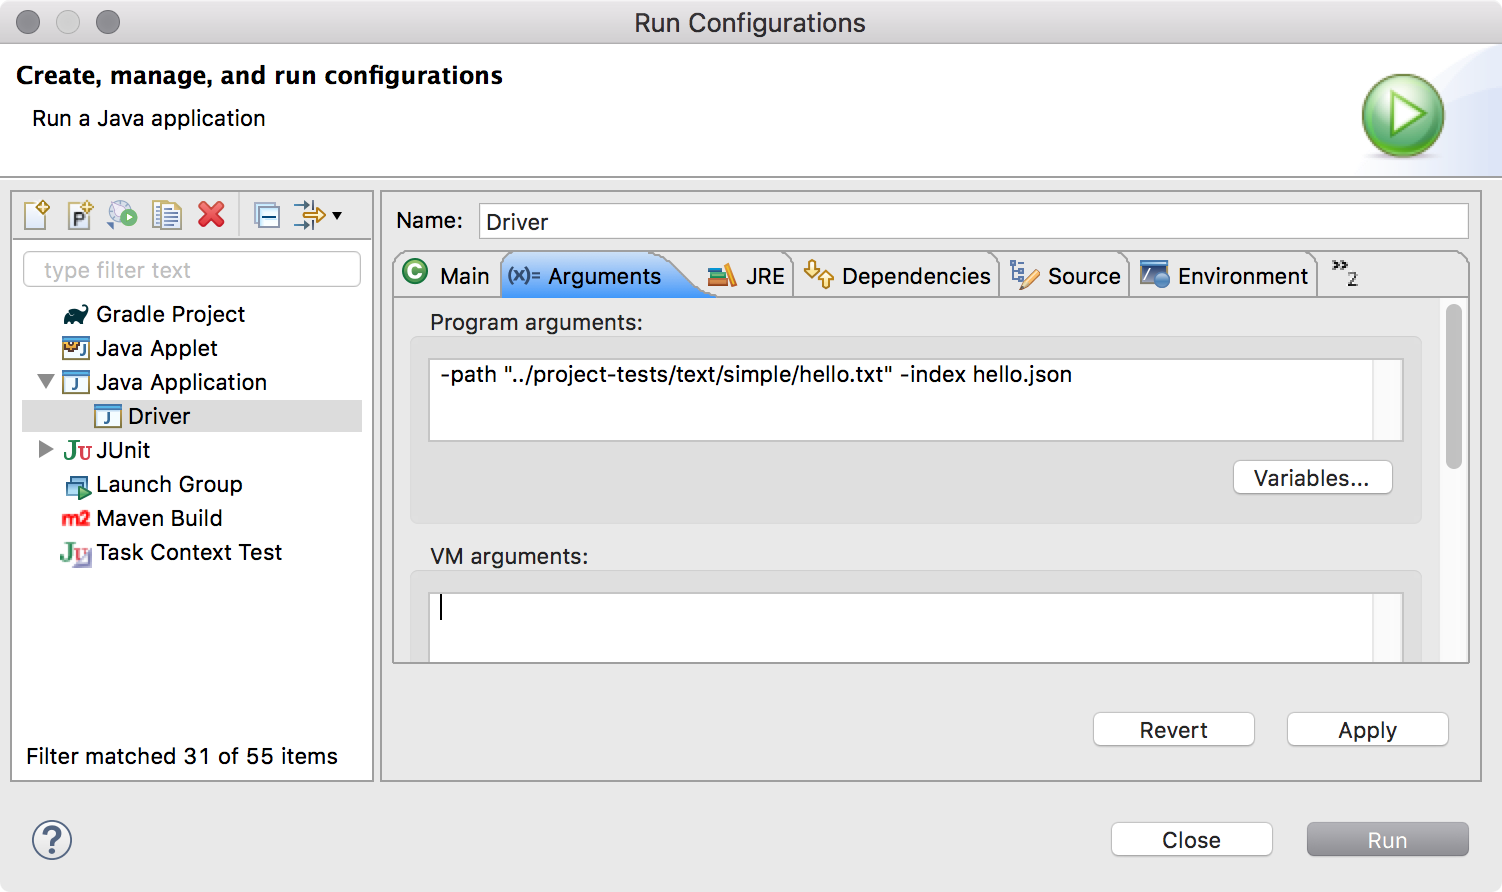
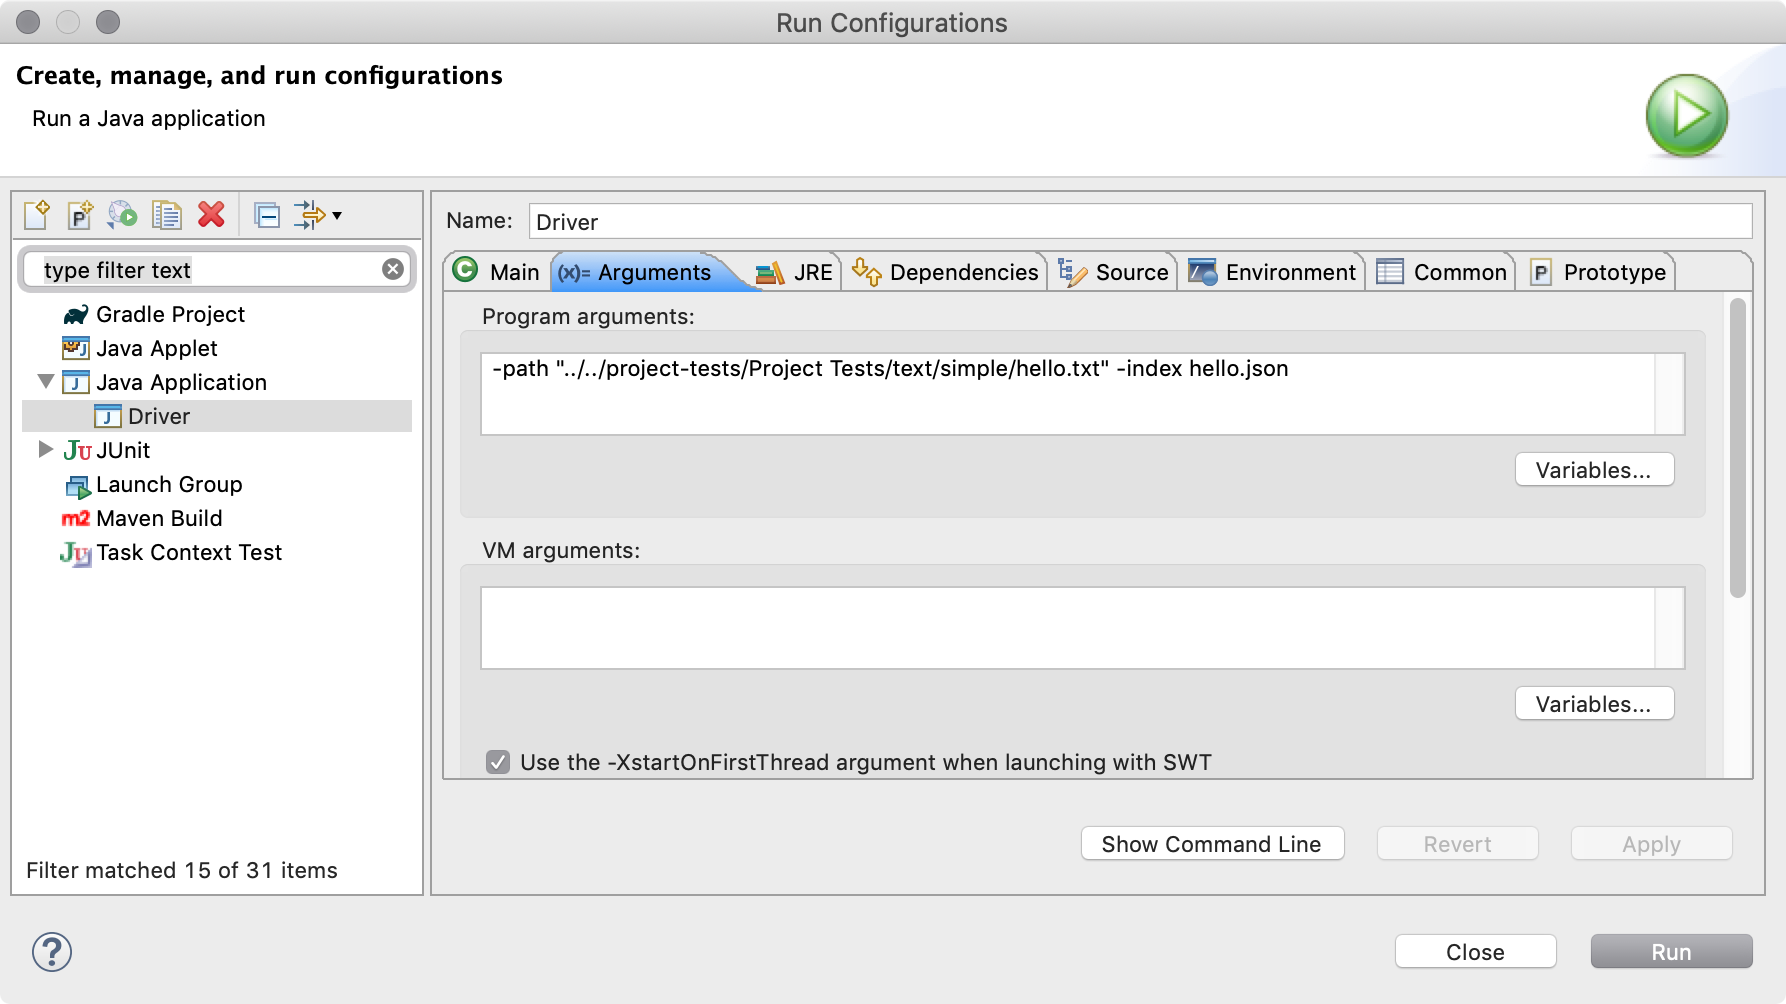
Updating project guides.

diff --git a/_projects/project-review.md b/_projects/project-review.md
@@ -4,10 +4,6 @@ navbar: Guides
 layout: guides
 key: 0.4
 
-tags:
-  - text: 'Pending'
-    type: 'is-light'
-
 assignments:
   - text: Project 1 Code Review
     link: https://usfca.instructure.com/courses/1586786/assignments/6871433
@@ -27,6 +23,7 @@ blurb: |
 We will use one-on-one code reviews with the instructor to evaluate your project design. We will be looking for the following when reviewing your code:
 
   - Your code should follow proper code style and naming conventions.
+  - Your code should have no warnings.
   - Your code should be well-documented using Javadoc notation.
   - Your code should be object-oriented.
   - Your code should be encapsulated, generalized, and reusable.
@@ -42,14 +39,19 @@ This list is not exhaustive, and exactly what we look for will vary by project.
 
 {% include anchor.html level="h2" text="Eligibility" %}
 
-Pending
-
-{% comment %}
 The code review process is required for each project. Only request code review if all of the following are true:
 
-  1. Your latest project release is properly formatted and commented (every member and method must have Javadoc).
+  1. Your latest project release is properly formatted and commented (every member and method must have Javadoc) and has no warnings.
 
-  1. Your latest project release has already been [verified](project-verification.html) on Github. Do **not** request code review until you have completed this step.
+  1. Your latest project release passes the **`review`** script on the lab computers. Unlike the `project` script, this script fails if you have warnings or missing Javadoc comments. You must pass the `review` script to be eligible for code review. The usage is the same:
+
+      ```
+      /home/public/cs212/review GITHUB_USER v#.#.#
+      ```
+
+      Replace `GITHUB_USER` with your Github username (not your USF/CS username), and `v#.#.#` with your release number. The script will output which tests you passed or failed.
+
+      For example, running the command `review sjengle v1.0.0` will fetch the `v1.0.0` release from the `project-sjengle` repository, verify there are no warnings or Javadoc issues, and run the `Project1Test.java` test suite.
 
   1. You have already passed the code review for the previous projects. For example, you may not request code review for project 3 until completing code review for project 2 and may not request verification for project 2 until completing code review for project 1.
 
@@ -61,32 +63,29 @@ If all of the above is true, follow the steps below to request project code revi
 
 To request a code review appointment, [create an issue](https://help.github.com/articles/creating-an-issue/) on your Github project repository. See the [Issues](https://guides.github.com/features/issues/) guide on Github for details.
 
-Several issue templates have already been provided for you. Select the "Project Review Request" template to get started.
+Several issue templates have already been provided for you. Select the "Review Request" template to get started.
 
-  1. Change the issue title to "Project `[RELEASE]` Review Request" where `[RELEASE]` is the release you want verified. For example, name the issue "Project v1.0.0 Review Request" to request a code review for release v1.0.0 of Project 1.
+  1. Change the issue title to "Review Request: Project `v#`" where `v#` is the release you want reviewed. For example, name the issue "Review Request: Project v1.0.0" to request a code review for release v1.0.0 of Project 1.
 
-  1. Replace `[FULLNAME]` in the issue body with your full name. For example, "Sophie Engle".
+  1. Replace `FULL_NAME` in the issue body with your full name. For example, "Sophie Engle". *This should happen automatically if you modified your issue templates.*
 
-  1. Replace `[RELEASE]` in the issue body with the release. For example, "v1.0.0".
+  1. Replace `GITHUB_USER` in the issue body with your Github username. For example, "sjengle". *This should happen automatically if you modified your issue templates.*
 
-  1. Link to the **verification issue** for the release. See the [Autolinked references and URLs](https://help.github.com/articles/autolinked-references-and-urls/#issues-and-pull-requests) guide for details on how to link to an issue on Github.
+  1. Replace `RELEASE` in the issue body with the previous release you created. (This helps us make sure you are numbering the releases correctly.) For example, "v1.0.0" or "N/A" if this is your first release.
 
-  1. Link to the **pull request** for your previous code review, or enter "N/A" if this is your first code review.
-
-  1. Indicate the review type. If this is the first code review for this project, request a 30 minute appointment. For following code reviews, request a 15 minute appointment. To do this, change the `[ ]` text to `[x]` instead next to the correct appointment type.
+  1. Link to the **pull request** for your previous code review, or enter "N/A" if this is your first code review. See the [Autolinked references and URLs](https://help.github.com/articles/autolinked-references-and-urls/#issues-and-pull-requests) guide for details on how to link to a pull request on Github.
 
   1. Assign the issue to our TA Olivia (`oliviakumar`). *This should happen automatically if you are using the correct issue template.*
 
   1. Label the issue with the `review` label. *This should happen automatically if you are using the correct issue template.*
 
-  7. Label the issue with the appropriate project label. For example, add the "project 1" label for project 1 code review.
+  1. Label the issue with the appropriate project label. For example, add the "project1" label for Project 1 code review.
 
-  8. Add the issue to the appropriate project milestone. The milestones should be either "Project 1", "Project 2", "Project 3", and "Project 4". You will have to [create the milestone](https://help.github.com/articles/creating-and-editing-milestones-for-issues-and-pull-requests/) if this is your first issue for the project.
+  1. Add the issue to the appropriate project milestone. The milestones should be either "project1", "project2", "project3", and "project4". You will have to [create the milestone](https://help.github.com/articles/creating-and-editing-milestones-for-issues-and-pull-requests/) if this is your first issue for the project.
 
-  9. Verify you have followed all of the necessary steps in the "Verification" section. To check a box, change the text `[ ]` to `[x]` instead. Do not create the issue unless you are able to check all of these boxes.
+  1. Verify you have followed all of the necessary steps in the "Verification" section. To check a box, change the text `[ ]` to `[x]` instead or click the checkbox after saving the issue. Do not create the issue unless you are able to check all of these boxes.
 
-
-There is an [example project code review request](https://github.com/usf-cs212-spring2019/template-project/issues/2) in the project template repository. If you make a mistake, please edit the issue. Do **not** delete the issue or close the issue and create a new one.
+There is an [example project code review request](https://github.com/usf-cs212-fall2019/template-project/issues/5) in the project template repository. If you make a mistake, please edit the issue. Do **not** delete the issue or close the issue and create a new one.
 
 {% include anchor.html level="h2" text="Code Review Grading" %}
 
@@ -110,7 +109,6 @@ Otherwise, you may resubmit your project for code review as many times as it tak
 
 <p><article class="message is-info">
   <div class="message-body">
-    <i class="fas fa-info-circle"></i>&nbsp;You need to re-verify your project is passing the functionality tests before requesting a code review appointment!
+    <i class="fas fa-info-circle"></i>&nbsp;You need to re-verify your project is passing the functionality tests before requesting a new code review appointment!
   </div>
 </article></p>
-{% endcomment %}

diff --git a/_projects/project-testing.md b/_projects/project-testing.md
@@ -30,7 +30,7 @@ It is possible to run `Driver.java` directly with your own command-line argument
 The tricky part is getting the paths right, since the test files are not in the same project as your code. On a Mac or Linux system, assuming your project repository and the [project-tests]({{ site.data.info.links.github.link }}/project-tests) repository are in the same parent folder, you can add the following command-line arguments:
 
 ```
--path "../project-tests/Project Tests/text/simple/hello.txt" -index hello.json
+-path "../../project-tests/Project Tests/text/simple/hello.txt" -index hello.json
 ```
 
 {% include screenshot.html image="project-eclipse-run-configuration.png" zoom="50%" %}
@@ -65,7 +65,7 @@ Message:
 This gives the actual arguments passed to `Driver` by the test, the actual and expected files being compared, and where the first difference was detected. You can use the [Compare Editor](http://help.eclipse.org/2019-06/topic/org.eclipse.platform.doc.user/reference/ref-25.htm?cp=0_4_4_1_2) in Eclipse to compare the files side-by-side for debugging, or use the [Run Configurations](#run-configurations) in Eclipse to enter the same arguments manually. Just keep in mind the paths need to be updated slightly since your `Driver` class is in a different folder than the project test code. So, for the above example, the appropriate command-line arguments to enter into the `Driver` run configuration would be:
 
 ```
--path "../project-tests/Project Tests/text/simple/hello.txt" -index out/index-text-simple-hello.json
+-path "../../project-tests/Project Tests/text/simple/hello.txt" -index out/index-text-simple-hello.json
 ```
 
 Then, the `index-text-simple-hello.json` will (hopefully) show up in the `out` subdirectory of your project repository.
@@ -107,10 +107,10 @@ This is a two part process: first you must create a release, and second you must
 5. Now that you have a release of your code, you can run the `project` script on the [CS lab computers](/guides/general/using-cs-lab-computers.html) to test your project code remotely using the command:
 
     ```
-    /home/public/cs212/project GithubUsername v#.#.#
+    /home/public/cs212/project GITHUB_USER v#.#.#
     ```
 
-    Replace `GithubUsername` with your Github username (not your USF/CS username), and `v#.#.#` with your release number. The script will output which tests you passed or failed. If all of the tests passed, you will get functionality credit for your project. If not, re-run the test using the `-debug` flag to save the exception output and ask for help on Piazza.
+    Replace `GITHUB_USER` with your Github username (not your USF/CS username), and `v#.#.#` with your release number. The script will output which tests you passed or failed. If all of the tests passed, you will get functionality credit for your project. If not, re-run the test using the `-debug` flag to save the exception output and ask for help on Piazza.
 
     For example, running the command `project sjengle v1.0.0` will fetch the `v1.0.0` release from the `project-sjengle` repository, and run the `Project1Test.java` test suite.
 

diff --git a/_projects/project-verification.md b/_projects/project-verification.md
@@ -68,12 +68,13 @@ Several issue templates have already been provided for you. Select the "Verifica
 
   9. Verify you have followed all of the necessary steps in the "Verification" section. To check a box, change the text `[ ]` to `[x]` instead or click the checkbox after saving the issue. Do not create the issue unless you are able to check all of these boxes.
 
-
-There is an [example project verification issue](https://github.com/usf-cs212-fall2019/template-project/issues/2) in the project template repository:
+~~There is an [example project verification issue](https://github.com/usf-cs212-fall2019/template-project/issues/2) in the project template repository:~~ **SCREENSHOT PENDING UPDATE**
 
 {% include screenshot.html image="project-verification-issue.png" zoom="50%" %}
 
 If you make a mistake, please edit the issue. Do **not** delete the issue or close the issue and create a new one.
+
+All of these steps have a reason; I track the number of issues related to verification and review for each project. I use these statistics to set the schedule each semester, and to track your individual progress.
 
 {% include anchor.html level="h2" text="Functionality Grading" %}
 
